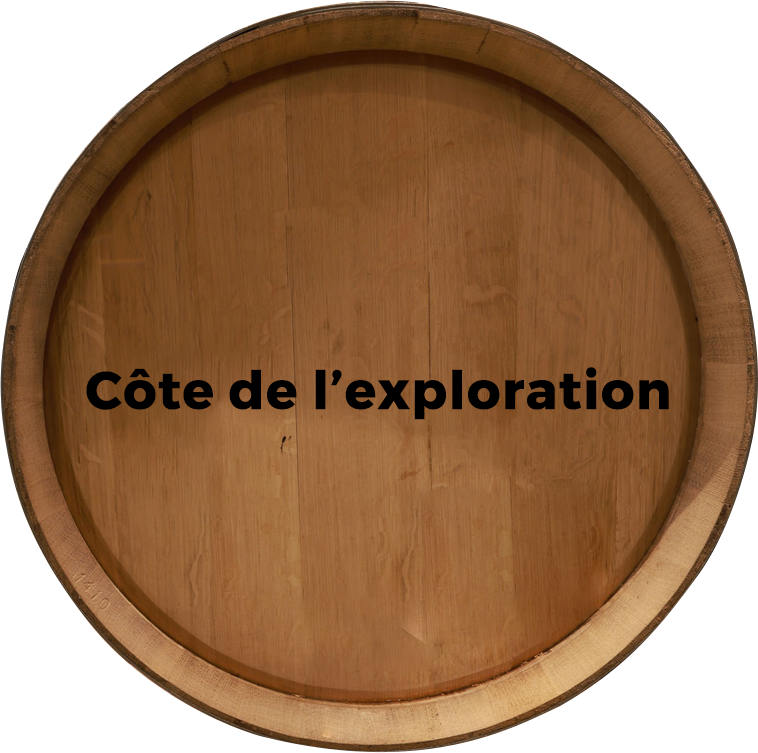
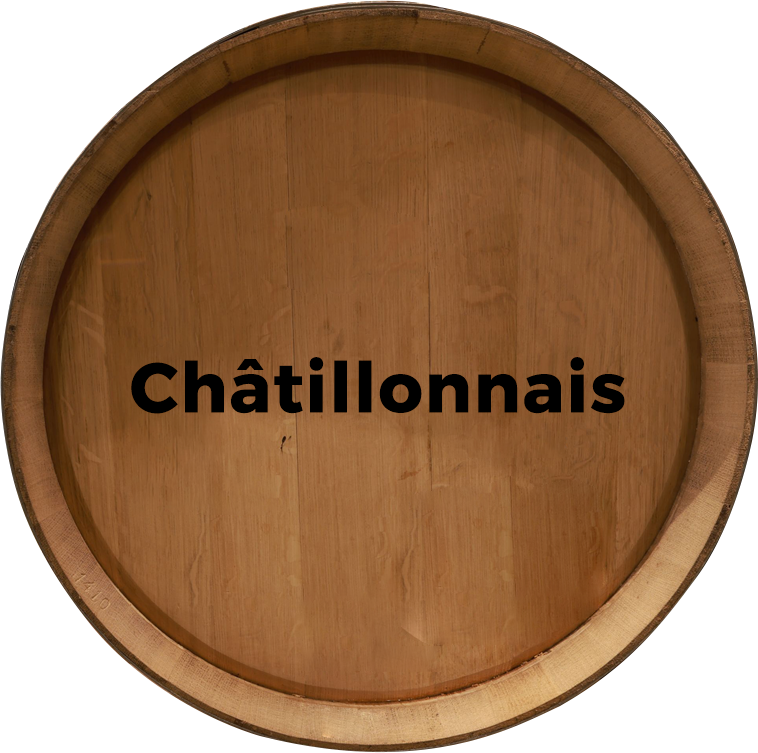
04/07/2023

Changed region(s): [[0.091, 0.4582, 0.8799, 0.5803]]

diff --git a/index.html b/index.html
@@ -668,17 +668,10 @@
                             <!-- Item 1 -->
                             <div class="col-sm-4 col-6">
                                 <div class="card">
-                                    <div class="card-body">
-                                        <img alt="image" src="demos/recipes/images/popular/1.png">
-                                        <div class="d-flex justify-content-between align-items-center mt-4 mb-2">
-                                            <p class="card-author">By <a href="#">Gunther Beard</a></p>
-                                            <span class="badge badge-primary bg-color"><i
-                                                    class="icon-star3"></i> 4.6</span>
-                                        </div>
-                                        <h3 class="card-title"><a class="stretched-link"
-                                                                  href="#">Green Goddess Avocado
-                                            Hummus</a></h3>
-                                        <h5 class="card-date"><i class="icon-line2-calendar"></i>Dec 26, 2021</h5>
+                                    <div class="card-body text-center">
+                                        <img alt="image" src="demos/recipes/images/popular/3.png">
+                                        <h3 class="card-title mt-3"><a class="stretched-link"
+                                                                  href="#">L’Yonne</a></h3>
                                     </div>
                                 </div>
                             </div>
@@ -686,34 +679,21 @@
                             <!-- Item 2 -->
                             <div class="col-sm-4 col-6">
                                 <div class="card">
-                                    <div class="card-body">
+                                    <div class="card-body text-center">
                                         <img alt="image" src="demos/recipes/images/popular/2.png">
-                                        <div class="d-flex justify-content-between align-items-center mt-4 mb-2">
-                                            <p class="card-author">By <a href="#">Chauffina Carr</a></p>
-                                            <span class="badge badge-primary bg-color"><i
-                                                    class="icon-star3"></i> 4.9</span>
-                                        </div>
-                                        <h3 class="card-title"><a class="stretched-link"
-                                                                  href="#">Strawberry Kiwi Healthy
-                                            Bowl</a></h3>
-                                        <h5 class="card-date"><i class="icon-line2-calendar"></i>Dec 1, 2021</h5>
+                                        <h3 class="card-title mt-3"><a class="stretched-link"
+                                                                  href="#">Châtillonnais</a></h3>
                                     </div>
                                 </div>
                             </div>
 
                             <!-- Item 3 -->
                             <div class="col-sm-4 col-6">
-                                <div class="card">
+                                <div class="card text-center">
                                     <div class="card-body">
-                                        <img alt="image" src="demos/recipes/images/popular/3.png">
-                                        <div class="d-flex justify-content-between align-items-center mt-4 mb-2">
-                                            <p class="card-author">By <a href="#">Eric Widget </a></p>
-                                            <span class="badge badge-primary bg-color"><i
-                                                    class="icon-star3"></i> 4.3</span>
-                                        </div>
-                                        <h3 class="card-title"><a class="stretched-link"
-                                                                  href="#">Rustic Sweet Treat</a></h3>
-                                        <h5 class="card-date"><i class="icon-line2-calendar"></i>Nov 20, 2021</h5>
+                                        <img alt="image" src="demos/recipes/images/popular/5.png">
+                                        <h3 class="card-title mt-3"><a class="stretched-link"
+                                                                  href="#">Côte de Nuits</a></h3>
                                     </div>
                                 </div>
                             </div>
@@ -721,17 +701,10 @@
                             <!-- Item 4 -->
                             <div class="col-sm-4 col-6">
                                 <div class="card">
-                                    <div class="card-body">
-                                        <img alt="image" src="demos/recipes/images/popular/4.png">
-                                        <div class="d-flex justify-content-between align-items-center mt-4 mb-2">
-                                            <p class="card-author">By <a href="#">Quiche Hollandaise</a></p>
-                                            <span class="badge badge-primary bg-color"><i
-                                                    class="icon-star3"></i> 4.5</span>
-                                        </div>
-                                        <h3 class="card-title"><a class="stretched-link"
-                                                                  href="#">A Delicious Homemade
-                                            Breakfast</a></h3>
-                                        <h5 class="card-date"><i class="icon-line2-calendar"></i>Oct 2, 2021</h5>
+                                    <div class="card-body text-center">
+                                        <img alt="image" src="demos/recipes/images/popular/1.png">
+                                        <h3 class="card-title mt-3"><a class="stretched-link"
+                                                                  href="#">Côte de Beaune</a></h3>
                                     </div>
                                 </div>
                             </div>
@@ -739,17 +712,10 @@
                             <!-- Item 5 -->
                             <div class="col-sm-4 col-6">
                                 <div class="card">
-                                    <div class="card-body">
-                                        <img alt="image" src="demos/recipes/images/popular/5.png">
-                                        <div class="d-flex justify-content-between align-items-center mt-4 mb-2">
-                                            <p class="card-author">By <a href="#">Norman Gordon</a></p>
-                                            <span class="badge badge-primary bg-color"><i
-                                                    class="icon-star3"></i> 4.5</span>
-                                        </div>
-                                        <h3 class="card-title"><a class="stretched-link"
-                                                                  href="#">Pumpkin Bars with Cream Cheese
-                                            Frosting</a></h3>
-                                        <h5 class="card-date"><i class="icon-line2-calendar"></i>Sep 18, 2021</h5>
+                                    <div class="card-body text-center">
+                                        <img alt="image" src="demos/recipes/images/popular/4.png">
+                                        <h3 class="card-title mt-3"><a class="stretched-link"
+                                                                  href="#">Côte Chalonnaise</a></h3>
                                     </div>
                                 </div>
                             </div>
@@ -757,17 +723,10 @@
                             <!-- Item 6 -->
                             <div class="col-sm-4 col-6">
                                 <div class="card">
-                                    <div class="card-body">
+                                    <div class="card-body text-center">
                                         <img alt="image" src="demos/recipes/images/popular/6.png">
-                                        <div class="d-flex justify-content-between align-items-center mt-4 mb-2">
-                                            <p class="card-author">By <a href="#">Druid Wensleydale</a></p>
-                                            <span class="badge badge-primary bg-color"><i
-                                                    class="icon-star3"></i> 4.0</span>
-                                        </div>
-                                        <h3 class="card-title"><a class="stretched-link"
-                                                                  href="#">The Best Homemade Pizza
-                                            Recipes</a></h3>
-                                        <h5 class="card-date"><i class="icon-line2-calendar"></i>Sep 7, 2021</h5>
+                                        <h3 class="card-title mt-3"><a class="stretched-link"
+                                                                  href="#">Mâconnais</a></h3>
                                     </div>
                                 </div>
                             </div>
